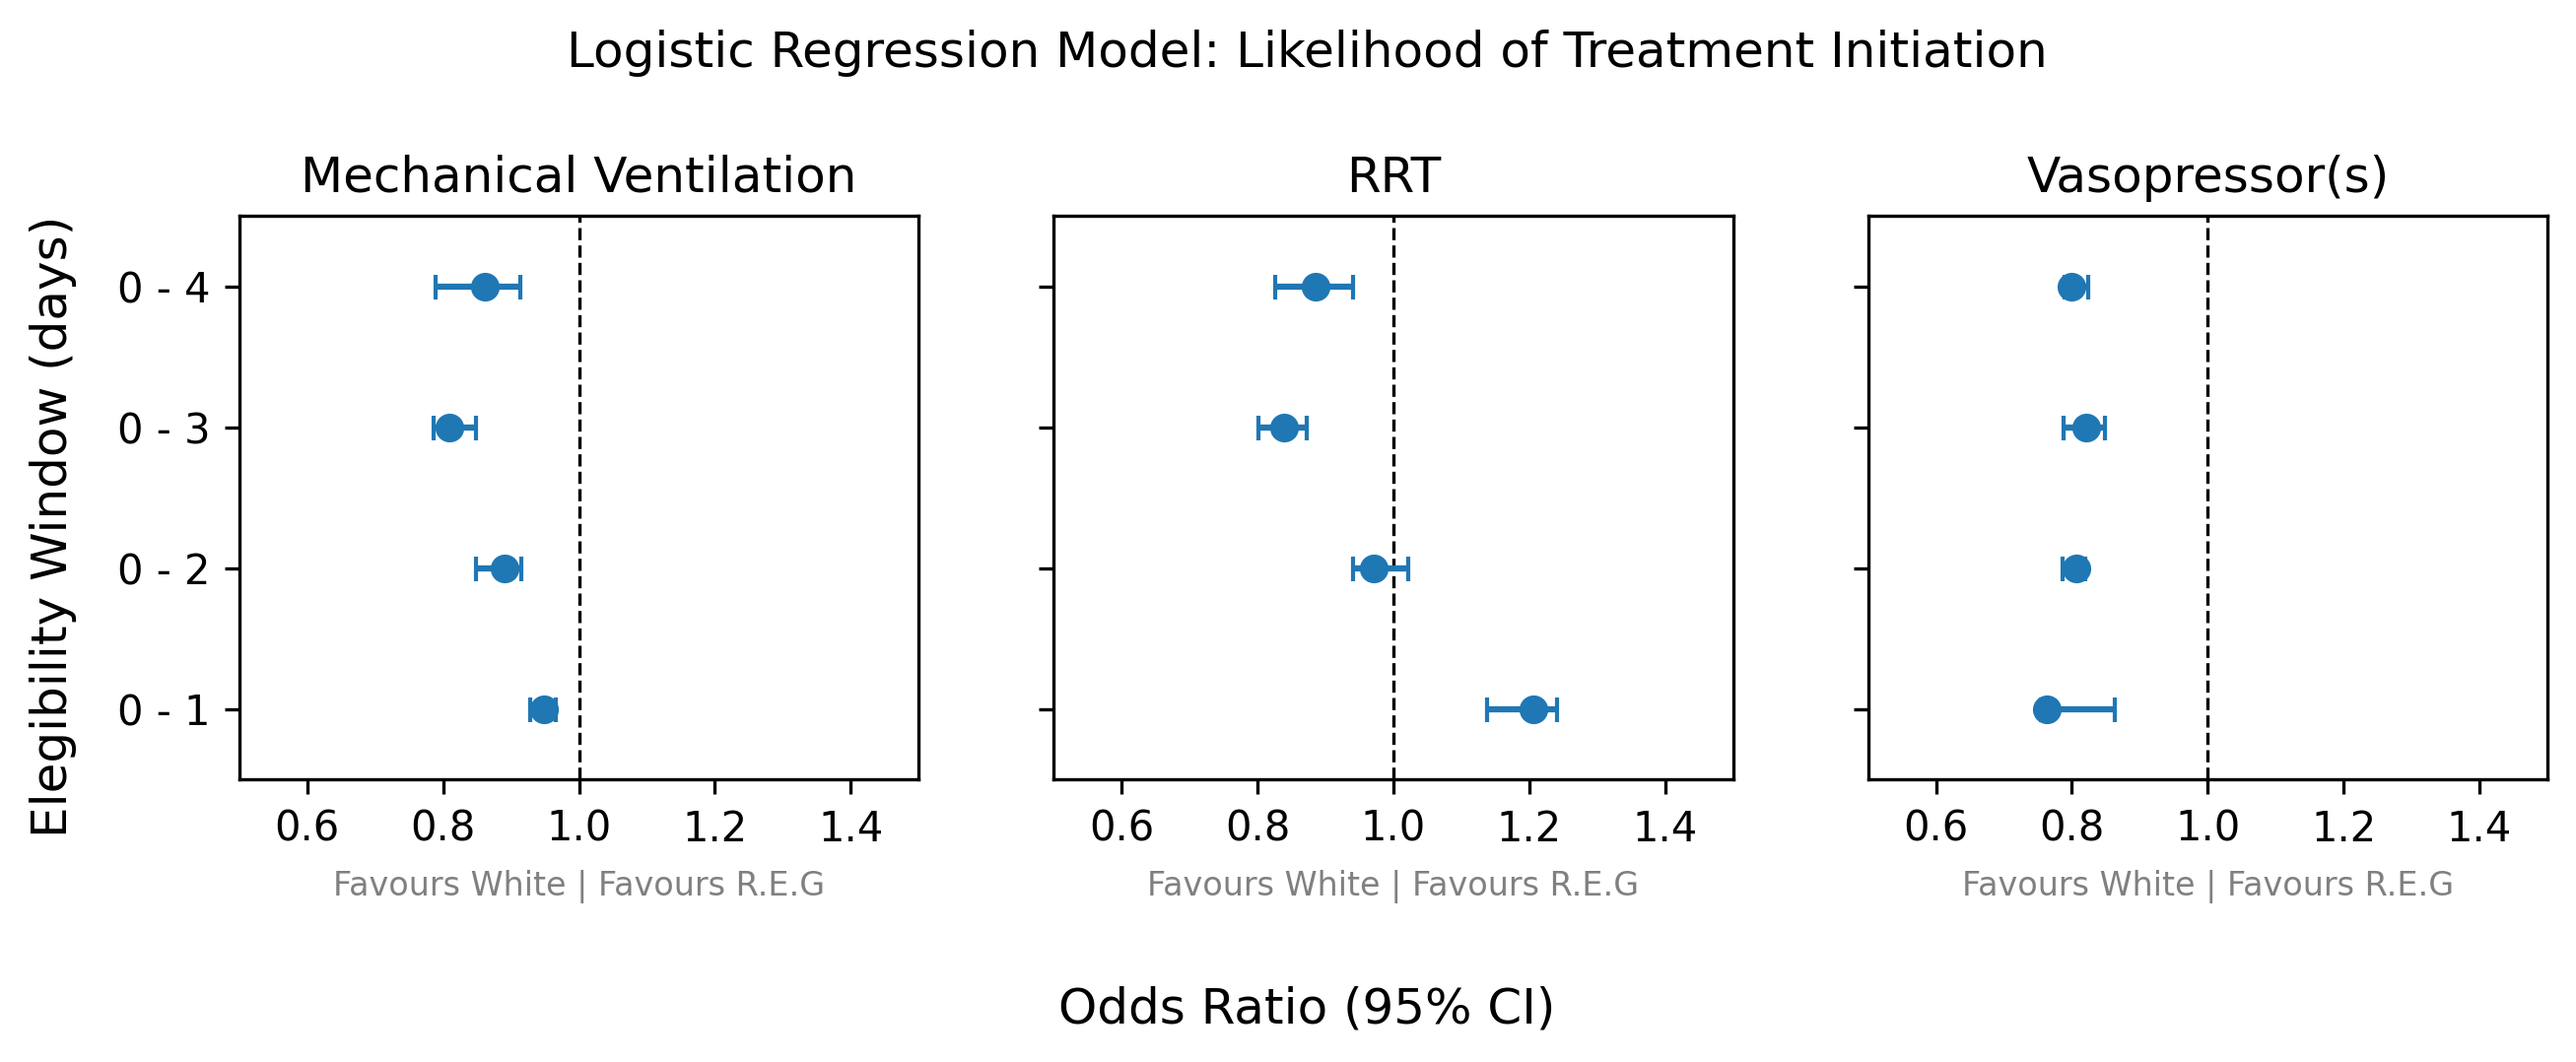
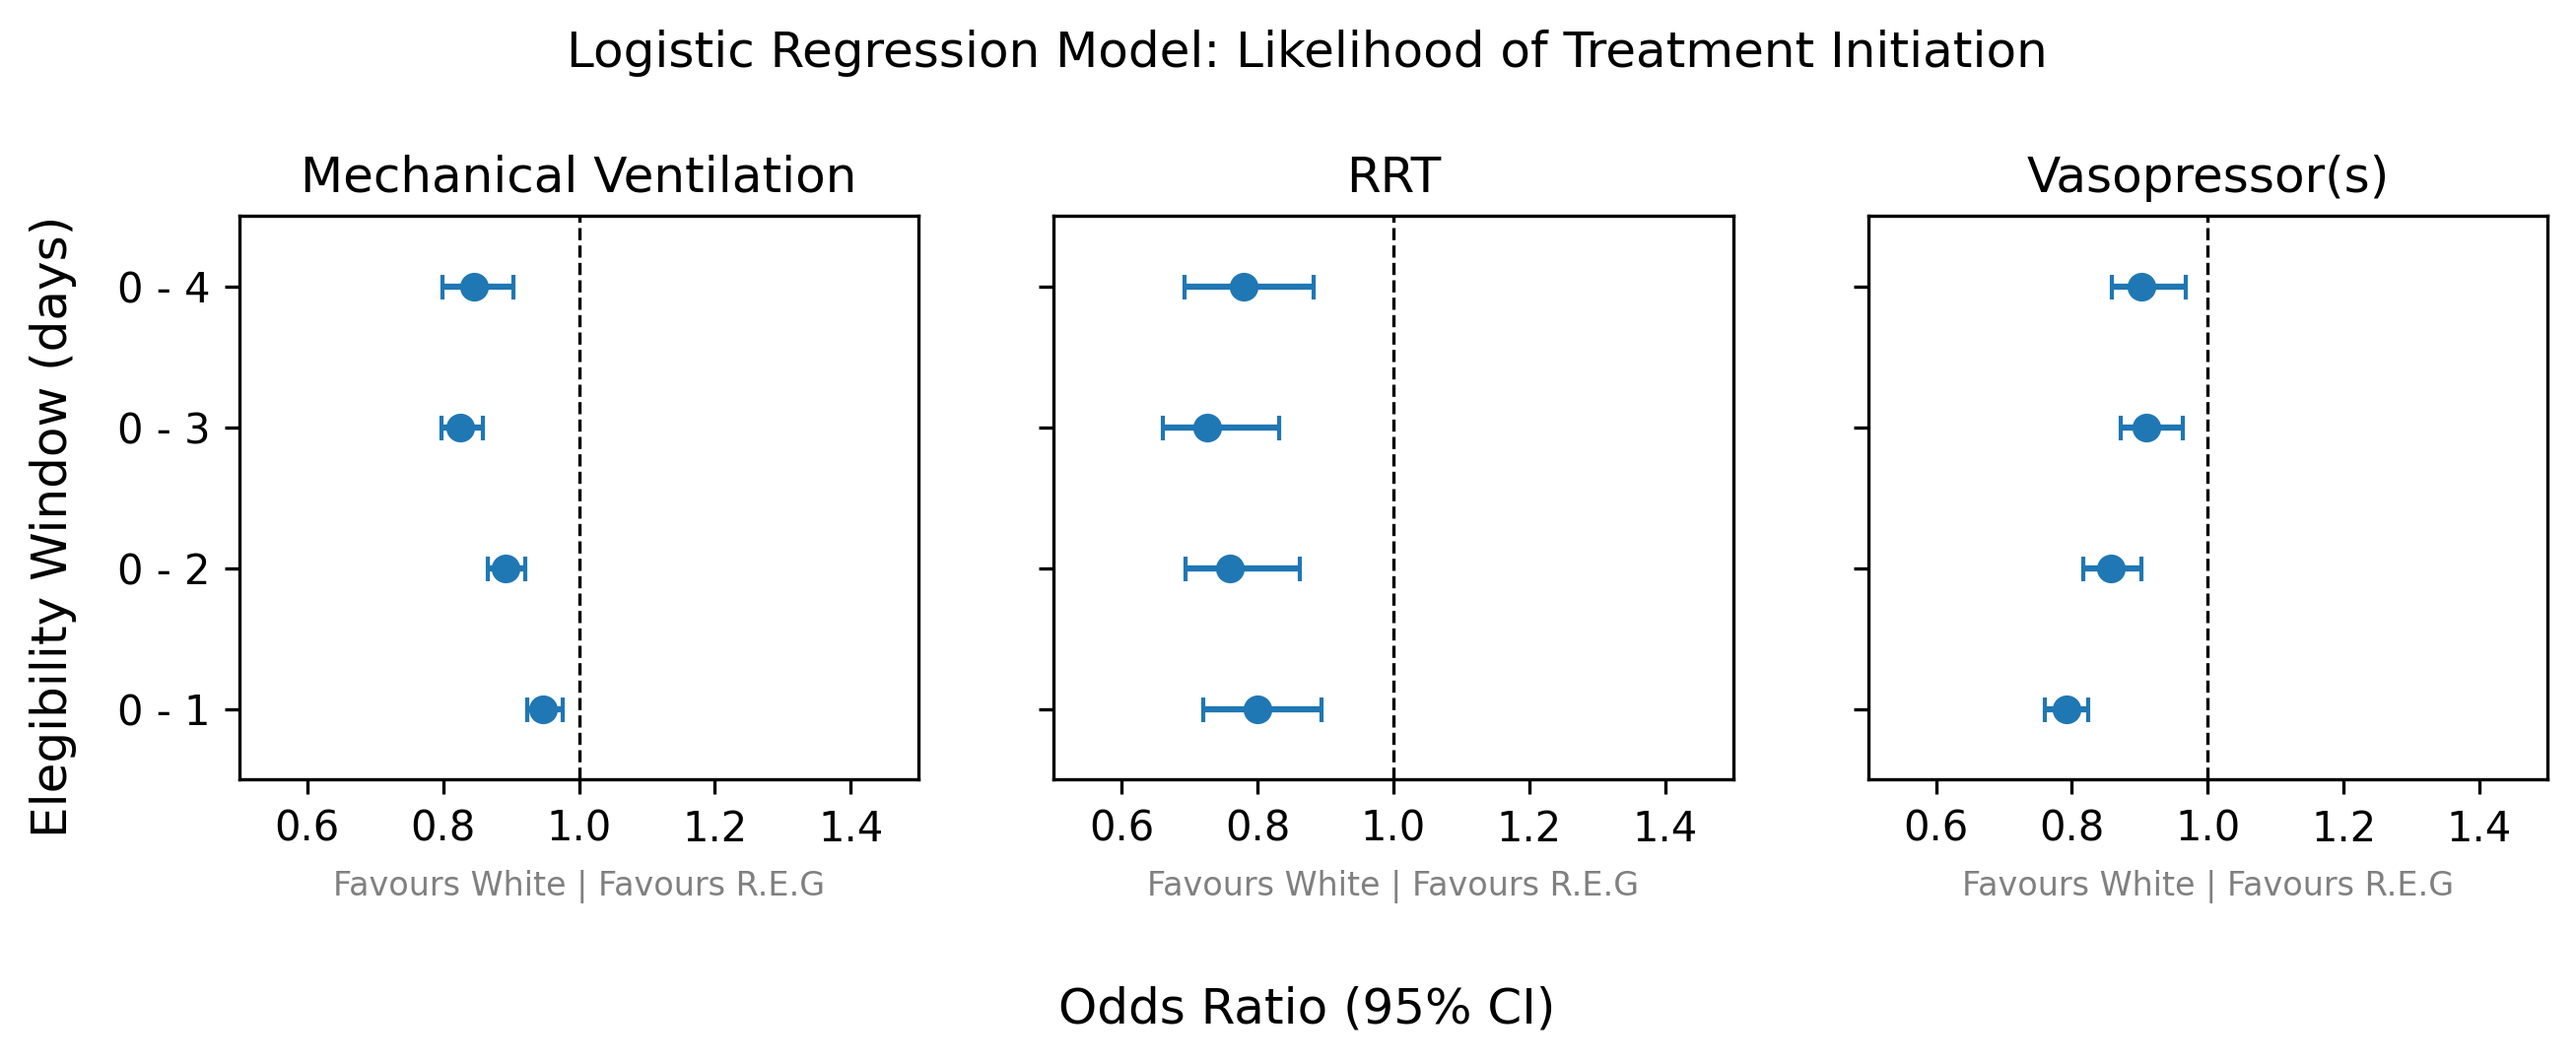
Plot functions & LogReg main results

diff --git a/src/plots/all_races.py b/src/plots/all_races.py
@@ -1,85 +1,88 @@
 import pandas as pd
 from matplotlib import pyplot as plt
-import numpy as np
-from tqdm import tqdm
 
 import matplotlib
 matplotlib.use('TKAgg')
 
-filename = "logreg_cv_all_coh_races"
-model_name = "Logistic Regression"
+
+def plot_results(filename, model_name):
+
+    # load data from csv file into pandas dataframe
+    data = pd.read_csv(f"results/models/{filename}.csv")
+
+    # group data by treatment type
+    treatment_groups = data.groupby("treatment")
+
+    races = ['race_white','race_black', 'race_hisp', 'race_asian']
+    races_names = ['White','Black', 'Hispanic', 'Asian']
+    ws = [.6, .2, -.2, -.6,]
+
+    # Set the figure and axes
+    fig, axes = plt.subplots(1, 3,
+                            sharex=True, sharey=True,
+                            figsize=(12,4.5))
+
+    fig.suptitle(f'{model_name} Model: Likelihood of Treatment Initiation')
+
+    # create dictionary of name for each treatment group
+    treatment_names = {"MV_elig": "Mechanical Ventilation",
+                    "RRT_elig": "RRT",
+                    "VP_elig": "Vasopressor(s)"
+    }
+
+    # set common horizontal line at 1 for all subplots
+    for i, ax in enumerate(axes):
+        ax.axvline(x=1, linewidth=0.8, linestyle='--', color='black')
+
+    # loop over treatment groups and create a subplot for each
+    for (treatment, groups), ax in zip(treatment_groups, axes):
+        # plot odds ratios with confidence intervals as error bars
+        for i in range(len(races)):
+
+            name = races_names[i]
+            w = ws[i]
+            group = groups[groups.race == races[i]]
+
+            ax.errorbar(group["OR"],
+                        group["cohort"]*3 + w,
+                        xerr=[group["OR"] - group["2.5%"], group["97.5%"] - group["OR"]],
+                        label=name,
+                        fmt='o',
+                        linewidth=.5,
+                        capsize=3)
+        # set subplot title
+        ax.set_title([treatment_names[treatment]][0])
+        # set yrange to breath a bit
+        ax.set_ylim([1.5, 13.5])
+        # set xrange to
+        ax.set_xlim([.5, 1.5])
+        # set yticks in string format
+        ax.set_yticks([3,6,9,12])
+        ax.set_yticklabels(["0 - 1", "0 - 2", "0 - 3", "0 - 4"])
+        ax.set_xlabel("Favours White | Favours R.E.G",
+                    fontsize=8, labelpad=5, color='gray')
+        
+    # add horizontal lines to all axes, per y tick
+    for ax in axes:
+        for y in [3,6,9]:
+            ax.axhline(y+1.5, color='gray', linestyle='-', linewidth=.5)
+        
+
+    # add legend
+    axes[2].legend(loc='upper left', bbox_to_anchor=(1.05, .7),
+                title="Race-Ethnicity")
+    # add title to legend
+
+    fig.supxlabel('Odds Ratio (95% CI)')
+    fig.supylabel('Elegibility Window (days)\n')
+    plt.tight_layout()
 
 
-# load data from csv file into pandas dataframe
-data = pd.read_csv(f"results/models/{filename}.csv")
+    # Save the figure
+    fig.savefig(f"results/plots/{filename}.png", dpi=300, bbox_inches="tight")
 
-# group data by treatment type
-treatment_groups = data.groupby("treatment")
+filenames = ["logreg_cv_all_coh_races", "xgb_cv_all_coh_races"]
+model_names = ["Logistic Regression", "XGBoost"]
 
-races = ['race_white','race_black', 'race_hisp', 'race_asian']
-races_names = ['White','Black', 'Hispanic', 'Asian']
-ws = [.6, .2, -.2, -.6,]
-
-# Set the figure and axes
-fig, axes = plt.subplots(1, 3,
-                         sharex=True, sharey=True,
-                         figsize=(12,4.5))
-
-fig.suptitle(f'{model_name} Model: Likelihood of Treatment Initiation')
-
-# create dictionary of name for each treatment group
-treatment_names = {"MV_elig": "Mechanical Ventilation",
-                   "RRT_elig": "RRT",
-                   "VP_elig": "Vasopressor(s)"
-}
-
-# set common horizontal line at 1 for all subplots
-for i, ax in enumerate(axes):
-    ax.axvline(x=1, linewidth=0.8, linestyle='--', color='black')
-
-# loop over treatment groups and create a subplot for each
-for (treatment, groups), ax in zip(treatment_groups, axes):
-    # plot odds ratios with confidence intervals as error bars
-    for i in range(len(races)):
-
-        name = races_names[i]
-        w = ws[i]
-        group = groups[groups.race == races[i]]
-
-        ax.errorbar(group["OR"],
-                    group["cohort"]*3 + w,
-                    xerr=[group["OR"] - group["2.5%"], group["97.5%"] - group["OR"]],
-                    label=name,
-                    fmt='o',
-                    linewidth=.5,
-                    capsize=3)
-    # set subplot title
-    ax.set_title([treatment_names[treatment]][0])
-    # set yrange to breath a bit
-    ax.set_ylim([1.5, 13.5])
-    # set xrange to
-    ax.set_xlim([.5, 1.5])
-    # set yticks in string format
-    ax.set_yticks([3,6,9,12])
-    ax.set_yticklabels(["0 - 1", "0 - 2", "0 - 3", "0 - 4"])
-    ax.set_xlabel("Favours White | Favours R.E.G",
-                fontsize=8, labelpad=5, color='gray')
-    
-# add horizontal lines to all axes, per y tick
-for ax in axes:
-    for y in [3,6,9]:
-        ax.axhline(y+1.5, color='gray', linestyle='-', linewidth=.5)
-    
-
-# add legend
-axes[2].legend(loc='upper left', bbox_to_anchor=(1.05, .7),
-               title="Race-Ethnicity")
-# add title to legend
-
-fig.supxlabel('Odds Ratio (95% CI)')
-fig.supylabel('Elegibility Window (days)\n')
-plt.tight_layout()
-
-
-# Save the figure
-fig.savefig(f"results/plots/{filename}.png", dpi=300, bbox_inches="tight")
+for f, m in zip(filenames, model_names):
+    plot_results(f, m)

diff --git a/src/plots/white_nonwhite.py b/src/plots/white_nonwhite.py
@@ -1,61 +1,64 @@
 import pandas as pd
 from matplotlib import pyplot as plt
-import numpy as np
-from tqdm import tqdm
 
 import matplotlib
 matplotlib.use('TKAgg')
 
-filename = "xgb_cv_all_coh"
-model_name = "XGBoost"
+def plot_results(filename, model_name):
+    # load data from csv file into pandas dataframe
+    data = pd.read_csv(f"results/models/{filename}.csv")
 
-# load data from csv file into pandas dataframe
-data = pd.read_csv(f"results/models/{filename}.csv")
+    # group data by treatment type
+    treatment_groups = data.groupby("treatment")
 
-# group data by treatment type
-treatment_groups = data.groupby("treatment")
+    # Set the figure and axes
+    fig, axes = plt.subplots(1, 3,
+                            sharex=True, sharey=True,
+                            figsize=(9,3.5))
 
-# Set the figure and axes
-fig, axes = plt.subplots(1, 3,
-                         sharex=True, sharey=True,
-                         figsize=(9,3.5))
+    fig.suptitle(f'{model_name} Model: Likelihood of Treatment Initiation')
 
-fig.suptitle(f'{model_name} Model: Likelihood of Treatment Initiation')
+    # create dictionary of name for each treatment group
+    treatment_names = {"MV_elig": "Mechanical Ventilation",
+                    "RRT_elig": "RRT",
+                    "VP_elig": "Vasopressor(s)"
+    }
 
-# create dictionary of name for each treatment group
-treatment_names = {"MV_elig": "Mechanical Ventilation",
-                   "RRT_elig": "RRT",
-                   "VP_elig": "Vasopressor(s)"
-}
+    # set common horizontal line at 1 for all subplots
+    for ax in axes:
+        ax.axvline(x=1, linewidth=0.8, linestyle='--', color='black')
 
-# set common horizontal line at 1 for all subplots
-for ax in axes:
-    ax.axvline(x=1, linewidth=0.8, linestyle='--', color='black')
-
-# loop over treatment groups and create a subplot for each
-for (treatment, group), ax in zip(treatment_groups, axes):
-    # plot odds ratios with confidence intervals as error bars
-    ax.errorbar(x=group["OR"],
-                y=group["cohort"],
-                xerr=[group["OR"] - group["2.5%"], group["97.5%"] - group["OR"]],
-                fmt='o',
-                capsize=3)
-    # set subplot title
-    ax.set_title([treatment_names[treatment]][0])
-    # set xrange to breath a bit
-    ax.set_ylim([.5, 4.5])
-    # set yrange to
-    ax.set_xlim([0.5, 1.5])
-    # set xticks in string format
-    ax.set_yticks([1,2,3,4])
-    ax.set_yticklabels(["0 - 1", "0 - 2", "0 - 3", "0 - 4"])
-    ax.set_xlabel("Favours White | Favours R.E.G",
-                  fontsize=8, labelpad=5, color='gray')
+    # loop over treatment groups and create a subplot for each
+    for (treatment, group), ax in zip(treatment_groups, axes):
+        # plot odds ratios with confidence intervals as error bars
+        ax.errorbar(x=group["OR"],
+                    y=group["cohort"],
+                    xerr=[group["OR"] - group["2.5%"], group["97.5%"] - group["OR"]],
+                    fmt='o',
+                    capsize=3)
+        # set subplot title
+        ax.set_title([treatment_names[treatment]][0])
+        # set xrange to breath a bit
+        ax.set_ylim([.5, 4.5])
+        # set yrange to
+        ax.set_xlim([0.5, 1.5])
+        # set xticks in string format
+        ax.set_yticks([1,2,3,4])
+        ax.set_yticklabels(["0 - 1", "0 - 2", "0 - 3", "0 - 4"])
+        ax.set_xlabel("Favours White | Favours R.E.G",
+                    fontsize=8, labelpad=5, color='gray')
 
 
-fig.supxlabel('Odds Ratio (95% CI)')
-fig.supylabel('Elegibility Window (days)')
-plt.tight_layout()
+    fig.supxlabel('Odds Ratio (95% CI)')
+    fig.supylabel('Elegibility Window (days)')
+    plt.tight_layout()
 
-# Save the figure
-fig.savefig(f"results/plots/{filename}.png", dpi=300, bbox_inches="tight")
+    # Save the figure
+    fig.savefig(f"results/plots/{filename}.png", dpi=300, bbox_inches="tight")
+
+
+filenames = ["logreg_cv_all_coh", "xgb_cv_all_coh"]
+model_names = ["Logistic Regression", "XGBoost"]
+
+for f, m in zip(filenames, model_names):
+    plot_results(f, m)
